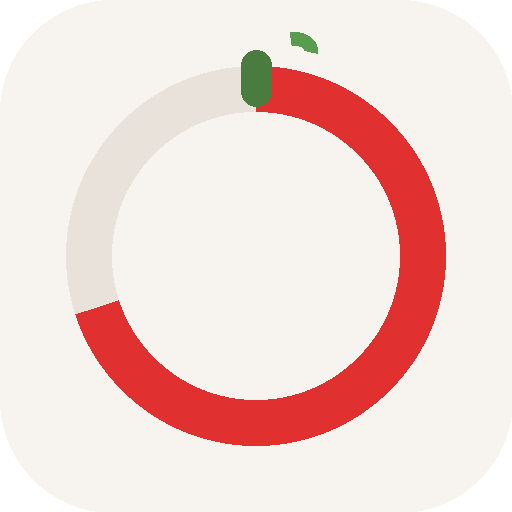
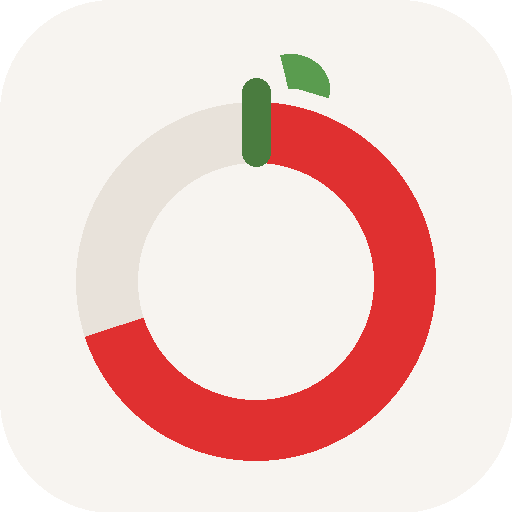
Add files via upload

diff --git a/index.html b/index.html
@@ -15,7 +15,7 @@
 <meta name="apple-mobile-web-app-title" content="POMYO">
 <link rel="manifest" href="manifest.json">
 <link rel="apple-touch-icon" href="icon-192.png">
[2 lines of base64/hex data omitted]
 <link rel="stylesheet" href="https://cdn.jsdelivr.net/gh/orioncactus/pretendard@v1.3.9/dist/web/static/pretendard.min.css">
 <style>
   *, *::before, *::after { box-sizing: border-box; margin: 0; padding: 0; }
@@ -94,19 +94,12 @@
   @media (max-height: 700px) {
     .screen { padding-top: 24px; padding-bottom: 70px; }
     .screen-header { margin-bottom: 20px; }
-    .timer-wrap { width: 220px; height: 220px; margin-bottom: 16px; }
-    .timer-wrap svg { width: 220px; height: 220px; }
+    .timer-wrap { margin-bottom: 16px; }
     .time-text { font-size: 2.2rem; }
     .controls-row { margin-bottom: 14px; }
     .btn-row { margin-bottom: 24px; }
   }
-  @media (max-height: 600px) {
-    .timer-wrap { width: 180px; height: 180px; }
-    .timer-wrap svg { width: 180px; height: 180px; }
-  }
   @media (max-width: 360px) {
-    .timer-wrap { width: 260px; height: 260px; }
-    .timer-wrap svg { width: 260px; height: 260px; }
     .main-btn { padding: 12px 36px; }
   }
 
@@ -122,8 +115,13 @@
   }
   #focus-overlay.visible { opacity: 1; pointer-events: all; }
   #focus-overlay .focus-timer-wrap {
-    position: relative; width: min(72vw, 300px); height: min(72vw, 300px);
+    position: relative; width: min(88vmin, 480px); height: min(88vmin, 480px);
     cursor: pointer; user-select: none;
+    animation: focusZoomIn 0.5s cubic-bezier(0.34, 1.56, 0.64, 1) both;
+  }
+  @keyframes focusZoomIn {
+    from { transform: scale(0.7); opacity: 0; }
+    to   { transform: scale(1);   opacity: 1; }
   }
   #focus-overlay .focus-timer-wrap svg {
     width: 100%; height: 100%; overflow: visible;
@@ -138,6 +136,8 @@
     content: ''; position: absolute; top: 3px; left: 9px;
     width: 16px; height: 11px; border: 2.5px solid var(--stem);
     border-radius: 0 18px 0 0; border-bottom: none; border-left: none;
+    transform: rotate(-40deg) translateY(-4px);
+    transition: transform 0.5s cubic-bezier(0.34,1.56,0.64,1), border-radius 0.5s ease;
   }
   #focus-overlay .focus-center {
     position: absolute; inset: 0;
@@ -153,7 +153,7 @@
 
   /* ── Timer circle ── */
   .timer-wrap {
-    position: relative; width: min(80vw, 300px); height: min(80vw, 300px);
+    position: relative; width: min(55vmin, 300px); height: min(55vmin, 300px);
     margin-bottom: 28px; cursor: grab; user-select: none;
     transition: transform 0.12s;
   }
@@ -386,6 +386,7 @@
       <!-- drag indicator ring (outer) -->
       <circle id="dragRing" cx="150" cy="150" r="142" fill="none" stroke="var(--accent)" stroke-width="3" stroke-dasharray="4 4" opacity="0" style="transition:opacity 0.2s;pointer-events:none"/>
       <path id="piePath" fill="var(--accent)"/>
+      <line id="pieEndLine" x1="150" y1="20" x2="150" y2="8" stroke="var(--accent)" stroke-width="3" stroke-linecap="round" style="pointer-events:none"/>
       <g id="ticks"></g>
       <circle cx="150" cy="150" r="3" fill="rgba(0,0,0,0.08)"/>
     </svg>
@@ -631,11 +632,25 @@
     const deg=ratio*360, sweep=ccw?0:1, s=polar(0), e=polar(ccw?-deg:deg);
     return `M${CX} ${CY} L${s.x} ${s.y} A${R} ${R} 0 ${deg>180?1:0} ${sweep} ${e.x} ${e.y} Z`;
   }
+  const pieEndLine = document.getElementById('pieEndLine');
   function updatePie() {
     const t = THEMES[currentTheme];
     const urgent = remainSec <= 60 && isRunning;
-    piePath.setAttribute('fill', urgent ? t.dark : t.accent);
+    const accent = urgent ? t.dark : t.accent;
+    piePath.setAttribute('fill', accent);
     piePath.setAttribute('d', describePie(remainSec / MAX_SEC, !dirToggle.checked));
+    // 끝 포인터 선
+    const ccw = !dirToggle.checked;
+    const ratio = remainSec / MAX_SEC;
+    const endDeg = ccw ? -(ratio * 360) : ratio * 360;
+    const rad = (endDeg - 90) * Math.PI / 180;
+    const INNER = R + 1, OUTER = R + 13;
+    pieEndLine.setAttribute('x1', CX + INNER * Math.cos(rad));
+    pieEndLine.setAttribute('y1', CY + INNER * Math.sin(rad));
+    pieEndLine.setAttribute('x2', CX + OUTER * Math.cos(rad));
+    pieEndLine.setAttribute('y2', CY + OUTER * Math.sin(rad));
+    pieEndLine.setAttribute('stroke', accent);
+    pieEndLine.setAttribute('display', ratio <= 0 ? 'none' : '');
   }
 
   /* ── Settings apply ── */
@@ -667,7 +682,7 @@
     interval=setInterval(()=>{if(remainSec<=0){clearInterval(interval);onComplete();return;}remainSec--;updateDisplay();},1000);
   }
   function pause() {
-    clearInterval(interval); isRunning=false; mainBtn.textContent='계속'; mainBtn.classList.remove('paused');
+    clearInterval(interval); isRunning=false; mainBtn.textContent='시작'; mainBtn.classList.remove('paused');
     durationRow.style.visibility='visible';
     document.getElementById('timerWrap').classList.remove('running');
     clearTimeout(focusTimer);
@@ -751,6 +766,7 @@
     }
 
     function onDown(e) {
+      if (isRunning) return;
       const pt = e.touches ? e.touches[0] : e;
       startX = pt.clientX; startY = pt.clientY;
       dragging = true; moved = false; prevAngle = null;
@@ -811,7 +827,6 @@
       dragging = false; prevAngle = null;
       wrap.classList.remove('dragging');
       dragRing.setAttribute('opacity', '0');
-      if (!moved) toggleTimer();
     }
 
     wrap.addEventListener('mousedown',  onDown, {passive:false});
